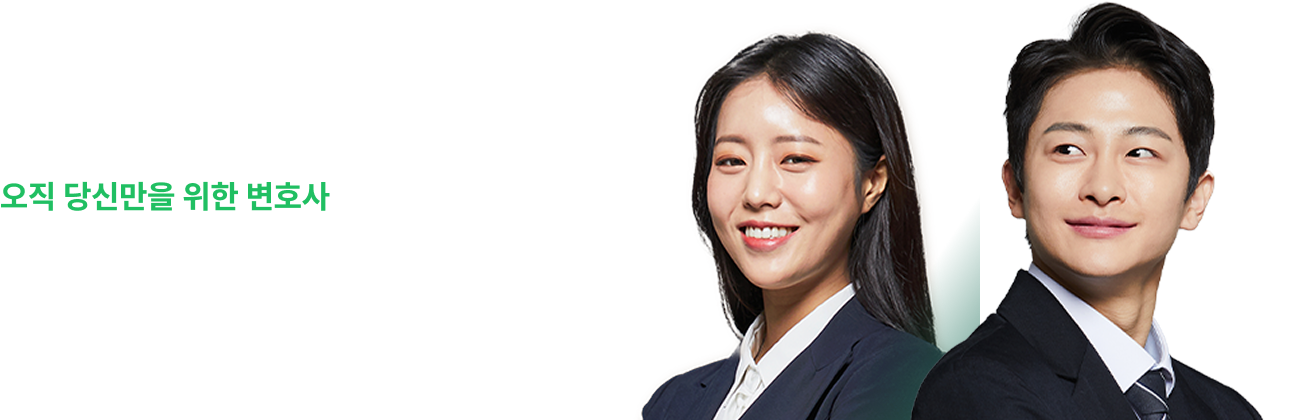
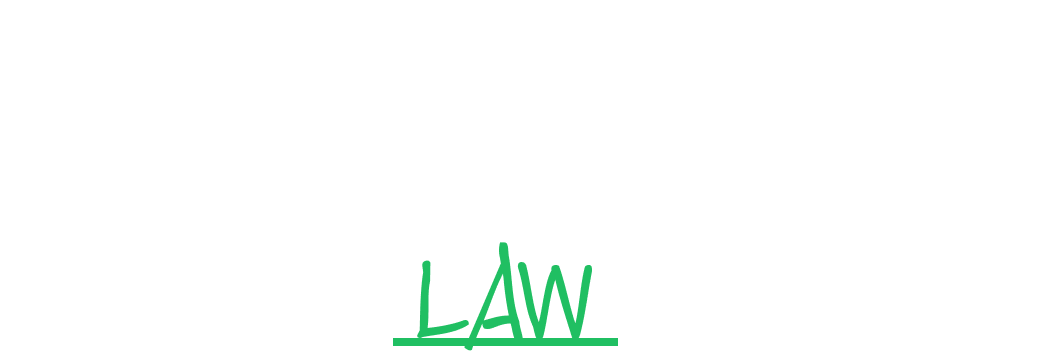
feat: HeroHeader 컴포넌트에 모바일 히어로 이미지 추가 및 스타일 수정

diff --git a/src/container/aboutAllbarlaw/heroHeader/HeroHeader.tsx b/src/container/aboutAllbarlaw/heroHeader/HeroHeader.tsx
@@ -3,13 +3,15 @@ import styles from './heroHeader.module.scss'
 import { ROUTER } from '@/routes/routerConstant'
 import { useNavigate } from 'react-router-dom'
 import { MouseEvent } from 'react'
-import { LOCAL } from '@/constants/local'
+import { useAuth } from '@/contexts/AuthContext'
+import landingHero from '@/assets/imgs/landing-hero.webp'
+import landingHeroMobile from '@/assets/imgs/landing-hero-mobile.webp'
+import { useMediaQuery } from '@/hooks/useMediaQuery'
 
 const HeroHeader = () => {
   const navigate = useNavigate()
-
-  // 토큰 존재 여부로 로그인 상태 확인
-  const isLoggedIn = !!(localStorage.getItem(LOCAL.TOKEN) || sessionStorage.getItem(LOCAL.TOKEN))
+  const { isLoggedIn } = useAuth()
+  const isMobile = useMediaQuery('(max-width: 80rem)')
 
   const linkList = [
     {
@@ -75,6 +77,13 @@ const HeroHeader = () => {
             )}
           </nav>
         </header>
+        <figure className={styles['hero-header-image-container']}>
+          <img
+            src={isMobile ? landingHeroMobile : landingHero}
+            alt='hero-header-image'
+            className={styles['hero-header-image']}
+          />
+        </figure>
       </section>
     </>
   )

diff --git a/src/container/aboutAllbarlaw/heroHeader/heroHeader.module.scss b/src/container/aboutAllbarlaw/heroHeader/heroHeader.module.scss
@@ -46,11 +46,28 @@
     }
   }
 
+  .hero-header-image-container {
+    padding-top: 6.875rem;
+    width: 80rem;
+  }
+
+  .hero-header-image {
+    width: auto;
+    height: auto;
+    max-width: 100%;
+    display: block;
+  }
+
   @media (max-width: $breakpoint-desktop) {
     height: 13.4375rem;
 
     .hero-header-nav {
       display: none;
+    }
+
+    .hero-header-image-container {
+      padding: 3.125rem 0 0 1.5rem;
+      width: 100%;
     }
   }
 }
